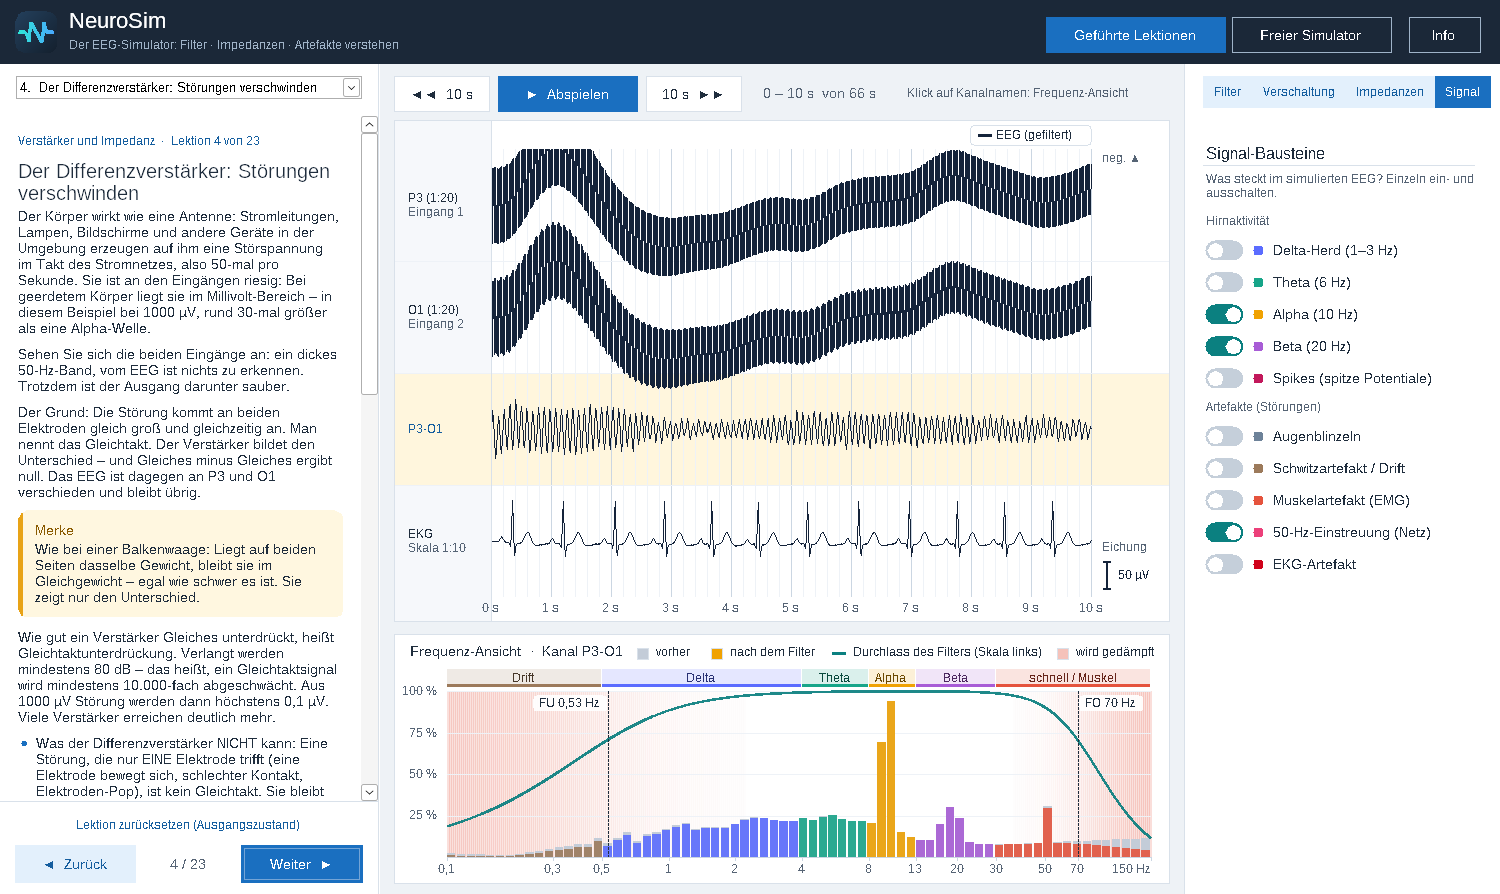
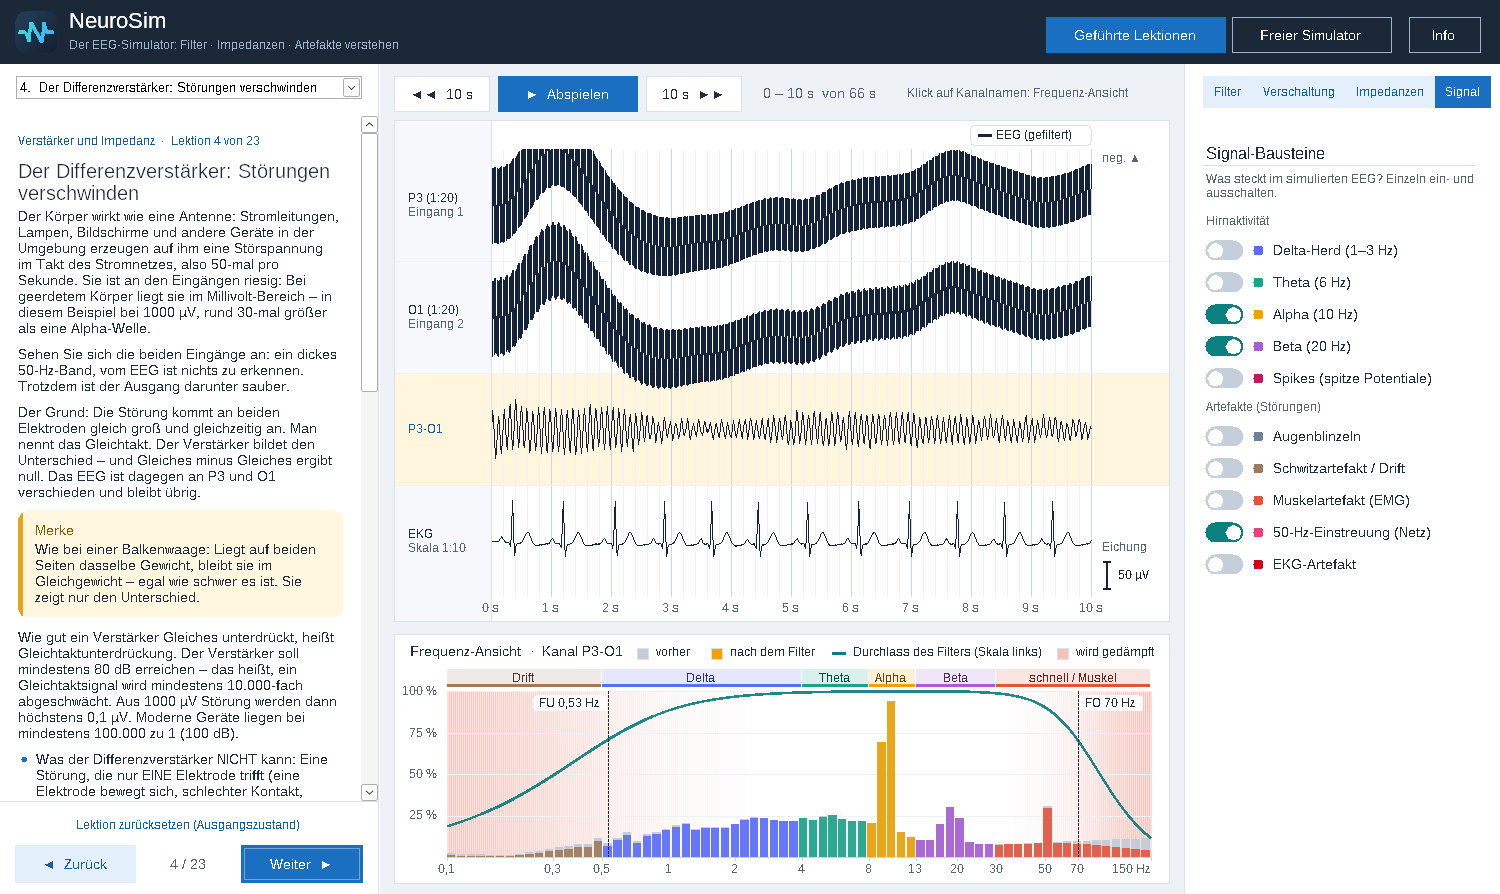
Abgleich mit Bischoff/Straube (Baier, Rosenow) und Merkblatt Krase
- Aufzeichnungsreferenz außerhalb des 10/20-Systems (typischerweise CPz)
- Gleichtaktunterdrückung: mindestens 80 dB, moderne Geräte mindestens 100 dB
- Vertexreferenz: Alpha-Amplitude, Polarität okzipitaler Wellen, weniger störanfällig als Ohren;
  Vertexwellen und K-Komplexe bei Cz
- Ohrelektroden besonders störanfällig; jede gesetzte Elektrode soll sichtbar sein
- Quellenübersicht: Lehrbuchkapitel als im Volltext geprüft vermerkt

Claude-Session: https://claude.ai/code/session_01Y2fd9HeGxC5hUyPdmKffKh

Changed region(s): [[0.0, 0.7248, 0.2147, 0.906]]

diff --git a/KONZEPT.md b/KONZEPT.md
@@ -114,6 +114,9 @@ Die Texte und die Simulation wurden gegen öffentlich zugängliche Leitlinien un
 | Registrierung digital ohne zusätzliche Filter; Übergangswiderstände 1–10 kΩ, möglichst gleichmäßig, vor, nach und bei Artefakten während der Ableitung dokumentieren; Programme während der Ableitung wechseln | DGKN, Empfehlungen für die Durchführung von EEG-Ableitungen bei Erwachsenen (Fassung Oktober 2024, im Volltext geprüft) |
 | Bipolar hebt umschriebene Befunde hervor, löscht Ausgebreitetes; Referenz zeigt Größe, kann „verschmutzt“ sein; Wahl von Ohr oder Cz je nach Ort des Befundes; Laplace für umschriebene Entladungen | Kutluay & Kalamangalam, J Clin Neurophysiol 2019 (im Volltext geprüft); ACNS Guideline 3 (2016, nur in Auszügen geprüft) |
 | Quellenableitung: Elektrode gegen ihre Nachbarn | Hjorth, Electroencephalogr Clin Neurophysiol 1975 (nur über Sekundärquellen geprüft) |
+| Gleichtaktunterdrückung mindestens 80 dB (10 000 : 1), moderne Geräte mindestens 100 dB; sie hängt vom Eingangswiderstand des Verstärkers und von der Elektrodenimpedanz ab; Aufzeichnung gegen eine Referenz außerhalb des 10/20-Systems (typischerweise CPz); jede gesetzte Elektrode soll in der Ableitemontage sichtbar sein | Baier, Kap. B-1.2 in Bischoff & Straube 2014 (im Volltext geprüft) |
+| Alpha-Amplitude am einfachsten in Cz-Referenzableitung messen; Polarität okzipitaler Wellen gegen Cz leichter zu entscheiden als bipolar; Vertexwellen und K-Komplexe mit Phasenumkehr bei Cz | Rosenow, Kap. B-1.3, ebenda (im Volltext geprüft) |
+| Ohrelektroden besonders störanfällig, Cz-Referenz weniger; Spannungsdifferenz wächst mit dem Elektrodenabstand | Kap. A-1, ebenda (im Volltext geprüft) |
 | Gleichtaktunterdrückung hängt vom Verhältnis Elektrodenimpedanz zu Eingangswiderstand ab; bei hohen Impedanzen werden die Unterschiede zwischen den Elektroden größer; Verstärker messen jeden Eingang gegen die Erde | Kappenman & Luck, Psychophysiology 2010 (im Volltext geprüft) |
 | Gleichtaktstörung bei geerdetem Körper im Millivolt-Bereich, sonst um 1 V; Gleichtaktunterdrückung mindestens 80 dB; Störströme erzeugen Spannungsabfall an den Elektroden | Usakli, Comput Intell Neurosci 2010 (im Volltext geprüft) |
 | Weiterführend zur Störeinkopplung (nicht im Volltext geprüft) | Metting van Rijn et al., Med Biol Eng Comput 1990; Huhta & Webster 1973 |
